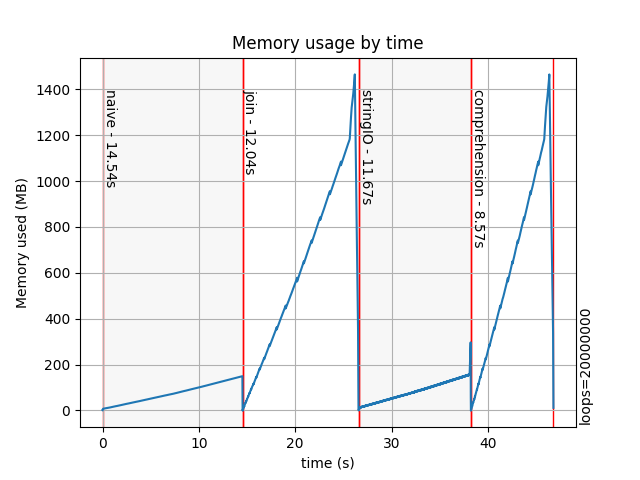
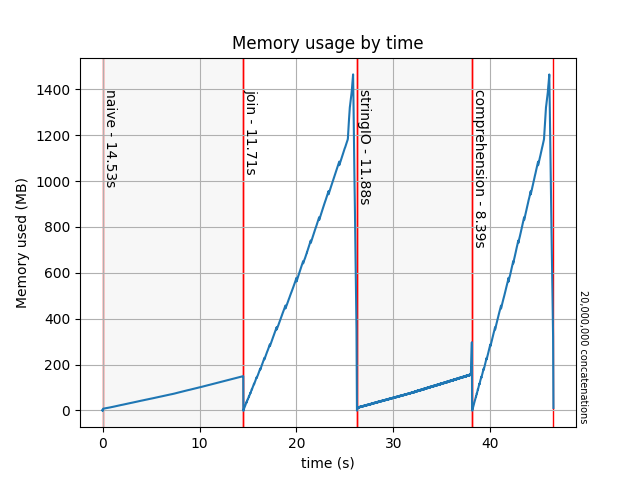
Better plot annotation

diff --git a/plot.py b/plot.py
@@ -57,10 +57,11 @@ def plot(t, s, anno, unit_name, output_file, quiet):
                 horizontalalignment='left', verticalalignment='top')
 
     # put the number of loops in as a "footnote"
-    ax.annotate(f'loops={common.loops}', xy=(0, 0),  xycoords='data', rotation=90,
+    matplotlib.rc('font', **{'size': 7})  # set font size smaller
+    ax.annotate(f'{common.loops:,} concatenations', xy=(0, 0), 
+                xycoords='data', rotation=270,
                 xytext=(1.005, 0.01), textcoords='axes fraction',
-                horizontalalignment='left', verticalalignment='bottom',
-                )
+                horizontalalignment='left', verticalalignment='bottom')
 
     fig.savefig(output_file)
     if not quiet:

diff --git a/README.rst b/README.rst
@@ -47,8 +47,11 @@ time and memory usage.  The output image is:
 
 .. image:: latest_test.png
 
-There is one *funny* noted.  If the number of test loops (defined in **common.py**)
+There *was* one problem noted.  If the number of test loops (defined in **common.py**)
 is set to 50 million, we see glitches in the graph:
 
 .. image:: glitch_test.png
+
+Have to investigate this.  After further testing, can't reliably repeat this,
+so it may be environmental.
 
